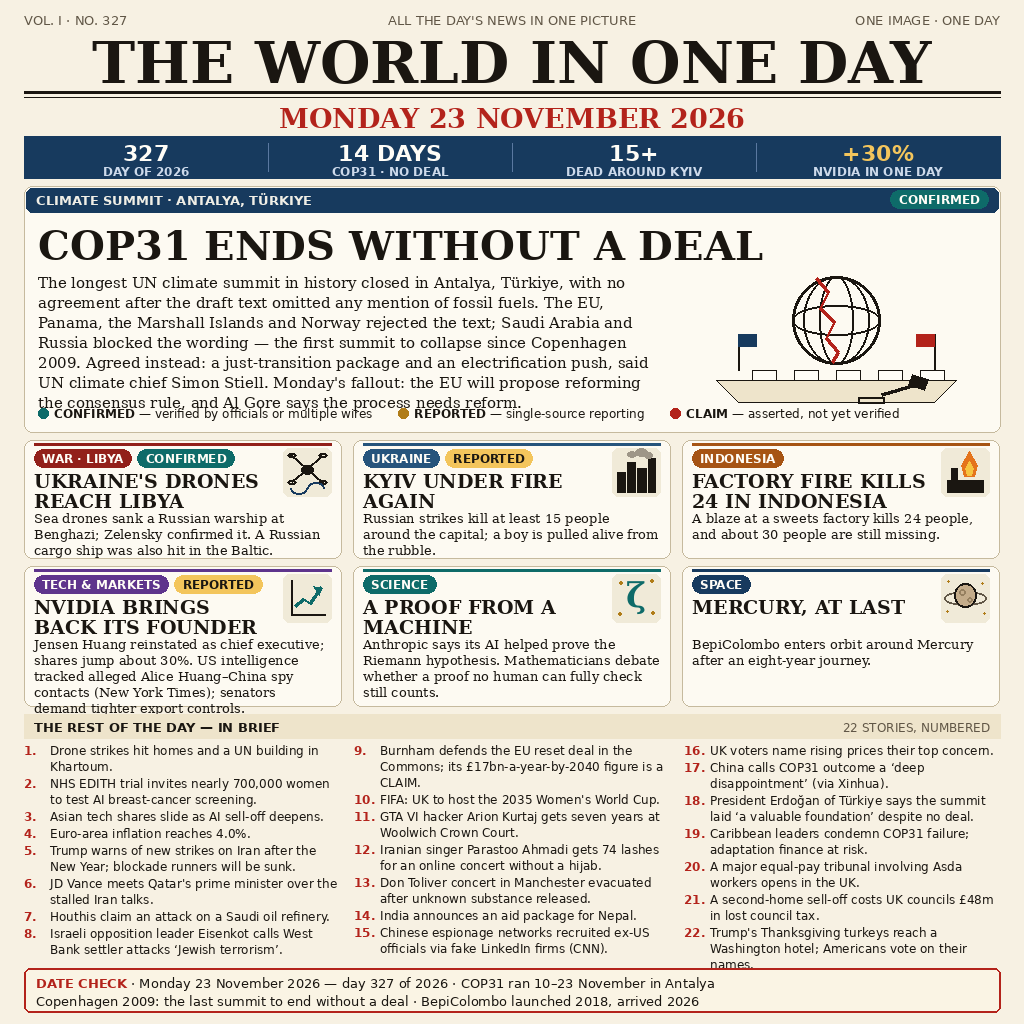
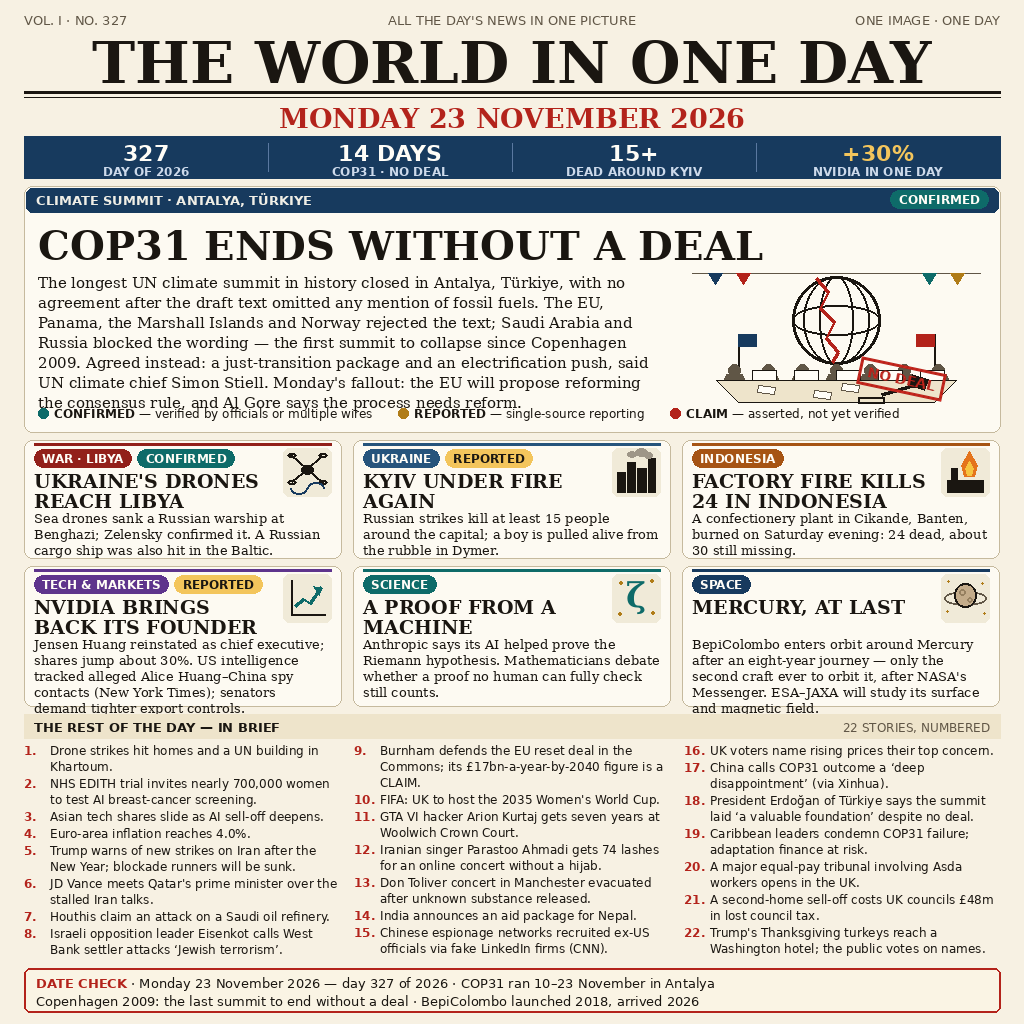
v2 polish: denser cards (Mercury/Kyiv/Indonesia verified lines), brief 22 rewrap, richer hero art with NO DEAL stamp

diff --git a/build_image.py b/build_image.py
@@ -140,8 +140,14 @@ def masthead(draw, doy):
 
 # --- hero ------------------------------------------------------------------
 
-def hero_art(draw, x, y):
-    """Fractured globe above a conference table; a gavel has fallen."""
+def hero_art(img, draw, x, y):
+    """Fractured globe above a conference table of delegates."""
+    # bunting: a string of small flags across the top of the scene
+    draw.line([x + 6, y + 1, x + 294, y + 1], fill=MUTED, width=1)
+    for fx, colour in [(x + 22, NAVY), (x + 50, RED),
+                       (x + 236, TEAL), (x + 264, GOLD)]:
+        draw.polygon([(fx, y + 1), (fx + 14, y + 1), (fx + 7, y + 12)],
+                     fill=colour)
     cx, cy, r = x + 150, y + 48, 44
     # globe with meridians and a parallel
     draw.ellipse([cx - r, cy - r, cx + r, cy + r], outline=INK, width=3)
@@ -158,6 +164,12 @@ def hero_art(draw, x, y):
     draw.rectangle([x + 52, y + 62, x + 70, y + 74], fill=NAVY)
     draw.line([x + 248, y + 62, x + 248, y + 98], fill=INK, width=2)
     draw.rectangle([x + 230, y + 62, x + 248, y + 74], fill=RED)
+    # delegates seated behind the table: heads and shoulders, muted ink
+    for i in range(7):
+        dx = x + 48 + i * 34
+        draw.ellipse([dx - 6, y + 92, dx + 6, y + 104], fill=MUTED)
+        draw.polygon([(dx - 12, y + 111), (dx - 8, y + 102),
+                      (dx + 8, y + 102), (dx + 12, y + 111)], fill=MUTED)
     # name plates along the table edge
     for i in range(5):
         px = x + 66 + i * 42
@@ -166,11 +178,28 @@ def hero_art(draw, x, y):
     draw.polygon([(x + 30, y + 108), (x + 270, y + 108),
                   (x + 248, y + 130), (x + 52, y + 130)],
                  fill=PAPER_DARK, outline=INK)
+    # loose paper sheets scattered on the table surface
+    for px, py in [(x + 72, y + 113), (x + 128, y + 118),
+                   (x + 156, y + 111)]:
+        draw.polygon([(px, py), (px + 17, py + 2), (px + 16, py + 9),
+                      (px - 1, py + 7)], fill=WHITE, outline=MUTED)
     # fallen gavel: handle, head, and the block it slipped off
     draw.line([x + 196, y + 122, x + 230, y + 112], fill=INK, width=4)
     draw.polygon([(x + 226, y + 102), (x + 242, y + 107),
                   (x + 238, y + 118), (x + 222, y + 113)], fill=INK)
     draw.rectangle([x + 172, y + 125, x + 198, y + 131], outline=INK, width=2)
+    # a red NO DEAL stamp slammed over the scene by the clerk
+    f_stamp = font(SANS_BOLD, 14)
+    label = "NO DEAL"
+    sw = int(tw(draw, label, f_stamp)) + 20
+    stamp = Image.new("RGBA", (sw, 30), (0, 0, 0, 0))
+    sd = ImageDraw.Draw(stamp)
+    sd.rectangle([1, 1, sw - 2, 28], outline=RED + (255,), width=3)
+    sd.text(((sw - tw(draw, label, f_stamp)) / 2, 7), label,
+            font=f_stamp, fill=RED + (255,))
+    stamp = stamp.rotate(-12, expand=True, resample=Image.BICUBIC)
+    img.paste(stamp, (x + 215 - stamp.width // 2,
+                      y + 107 - stamp.height // 2), stamp)
 
 
 HERO_SUMMARY = (
@@ -191,7 +220,7 @@ LEGEND = [
 ]
 
 
-def hero(draw, y):
+def hero(img, draw, y):
     draw.rounded_rectangle([MARGIN, y, RIGHT, y + 246], radius=8,
                            fill=CARD_BG, outline=CARD_EDGE)
     # kicker band in navy, with the certainty chip on the right
@@ -211,7 +240,7 @@ def hero(draw, y):
     # summary on the left, illustration on the right
     text_block(draw, MARGIN + 14, y + 88, HERO_SUMMARY,
                font(SERIF, 15), INK, 632, 20)
-    hero_art(draw, RIGHT - 314, y + 86)
+    hero_art(img, draw, RIGHT - 314, y + 86)
 
     # certainty legend along the bottom of the hero
     lx = MARGIN + 14
@@ -308,11 +337,11 @@ CARDS_R1 = [
     dict(badge="UKRAINE", colour=(38, 84, 124), chip=("REPORTED", GOLD_LIGHT, INK),
          icon="skyline", headline="KYIV UNDER FIRE AGAIN",
          text="Russian strikes kill at least 15 people around the capital; "
-              "a boy is pulled alive from the rubble."),
+              "a boy is pulled alive from the rubble in Dymer."),
     dict(badge="INDONESIA", colour=(166, 84, 20), chip=None,
          icon="flame", headline="FACTORY FIRE KILLS 24 IN INDONESIA",
-         text="A blaze at a sweets factory kills 24 people, and about 30 "
-              "people are still missing."),
+         text="A confectionery plant in Cikande, Banten, burned on "
+              "Saturday evening: 24 dead, about 30 still missing."),
 ]
 
 CARDS_R2 = [
@@ -330,7 +359,9 @@ CARDS_R2 = [
     dict(badge="SPACE", colour=NAVY, chip=None,
          icon="mercury", headline="MERCURY, AT LAST",
          text="BepiColombo enters orbit around Mercury after an eight-year "
-              "journey."),
+              "journey — only the second craft ever to orbit it, after NASA's "
+              "Messenger. ESA–JAXA will study its surface and magnetic "
+              "field."),
 ]
 
 
@@ -399,7 +430,7 @@ BRIEFS = [
     "A major equal-pay tribunal involving Asda workers opens in the UK.",
     "A second-home sell-off costs UK councils £48m in lost council tax.",
     "Trump's Thanksgiving turkeys reach a Washington hotel; "
-    "Americans vote on their names.",
+    "the public votes on names.",
 ]
 
 
@@ -469,7 +500,7 @@ def main():
     day = datetime.date(2026, 11, 23)
     doy = day.timetuple().tm_yday
     masthead(draw, doy)
-    hero(draw, 186)
+    hero(img, draw, 186)
     cards(draw)
     briefs(draw, 714)
     date_check(draw, 968, doy)
